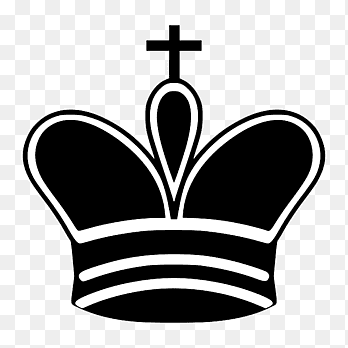
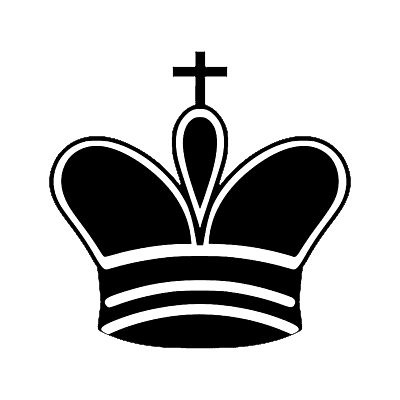
edited out the ugly borders for the piece assets.  Thanks to Audrey for teaching me how to use photopea

Changed region(s): [[0.0575, 0.0575, 0.9483, 0.9483]]

diff --git a/src/board/engine.cpp b/src/board/engine.cpp
@@ -9,7 +9,7 @@ std::vector<Move> generate_legal_moves(const Board& board) {
         if (is_color(piece, board.active_color)) { 
             switch (piece_type(piece)) { 
                 case Piece::PAWN:  
-                    generate_pawn_moves(i);
+                    // generate_pawn_moves(i);
                     break;
                 case Piece::KNIGHT: 
                     break;
@@ -28,6 +28,6 @@ std::vector<Move> generate_legal_moves(const Board& board) {
     return legal_moves;
 }
 
-void generate_pawn_moves(int index) { 
-    
-}
+// void generate_pawn_moves(int index) { 
+
+// }

diff --git a/src/gui/gui_main.cpp b/src/gui/gui_main.cpp
@@ -74,7 +74,7 @@ TextureMap init_textures() {
     if (!white_king->loadFromFile("../assets/white-king.png")) throw std::runtime_error("file not found: white-king.png");
 
     TextureMap texture_map = {
-        { Piece::BLACK | Piece::PAWN, black_pawn },
+        { Piece::BLACK | Piece::PAWN, black_pawn }, 
         { Piece::BLACK | Piece::ROOK, black_rook },
         { Piece::BLACK | Piece::KNIGHT, black_horse },
         { Piece::BLACK | Piece::BISHOP, black_bishop },

diff --git a/src/main.cpp b/src/main.cpp
@@ -23,7 +23,7 @@ int main() {
     PieceSprite* drag_target; 
     bool is_dragging = false;
 
-    generate_legal_moves(*game_board);
+    // generate_legal_moves(*game_board);
     
     while (main_window.isOpen()) { 
         sf::Event event;

diff --git a/README.md b/README.md
@@ -1,0 +1,6 @@
+My version of a chess AI. 
+Project is being written for fun. 
+I'll add more in here evntually.
+
+Special Thanks: 
+Audrey - helped me with the art (https://twitter.com/SocketteToMe)
